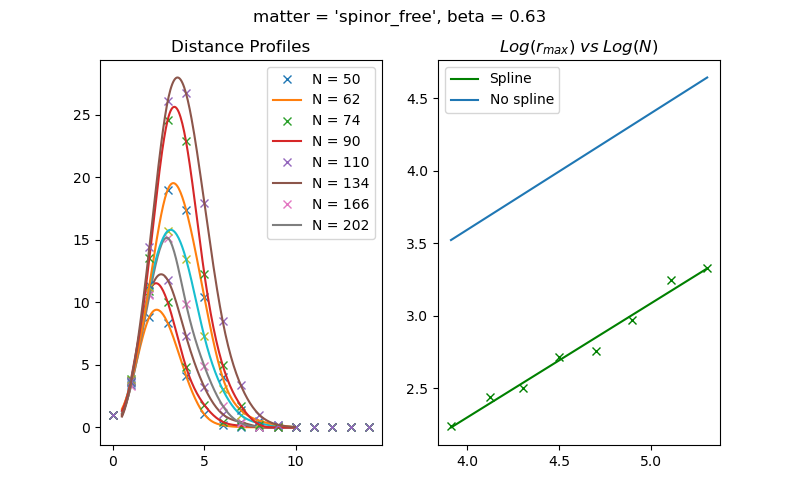
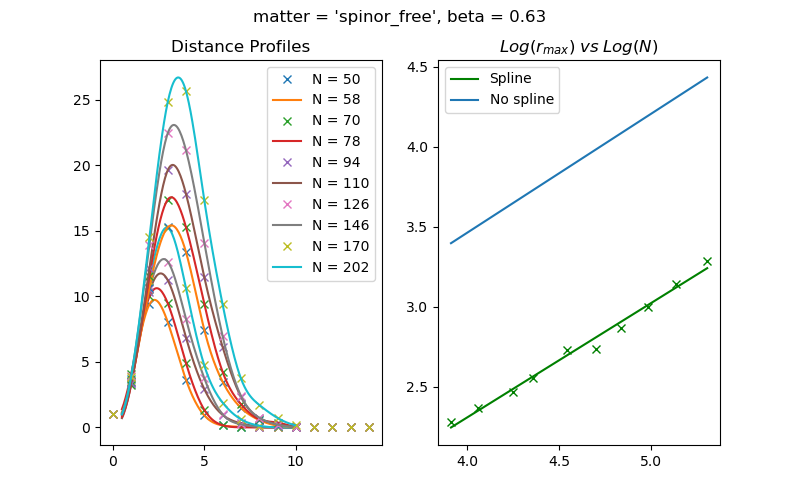
params changed and data gathered

diff --git a/manifold_sampler/main_hpc.py b/manifold_sampler/main_hpc.py
@@ -4,12 +4,12 @@ from Analysis_utils import *
 from scipy.interpolate import CubicSpline
 
 # params for the lattice-matter system and sampling
-size_min, size_max, n_sizes = 50, 200, 10
+size_min, size_max, n_sizes = 100, 400, 10
 sizes = [(int(i) // 4) * 4 + 2 for i in np.geomspace(size_min, size_max, n_sizes)]
 beta = 0.63
 matter = 'spinor_free'
 strategy = ['gravity', matter]
-eq_sweeps, meas_sweeps, n_measurements = 150, 1, 150
+eq_sweeps, meas_sweeps, n_measurements = 200, 1, 200
 
 # getting the array index of the hpc batch
 array_id = os.getenv('SLURM_ARRAY_TASK_ID')
@@ -92,5 +92,5 @@ if __name__ == '__main__':
     if matter == 'spinor_free':
         with open(r"data/haussdorf_spinor_free.csv", "a") as f:
             writer = csv.writer(f)
-            writer.writerow([round(d_H_ws,3), round(d_H_err_ws), round(d_H), round(d_H_err),
+            writer.writerow([round(d_H_ws, 3), round(d_H_err_ws, 3), round(d_H, 3), round(d_H_err, 3),
                              size_min, size_max, n_sizes])
